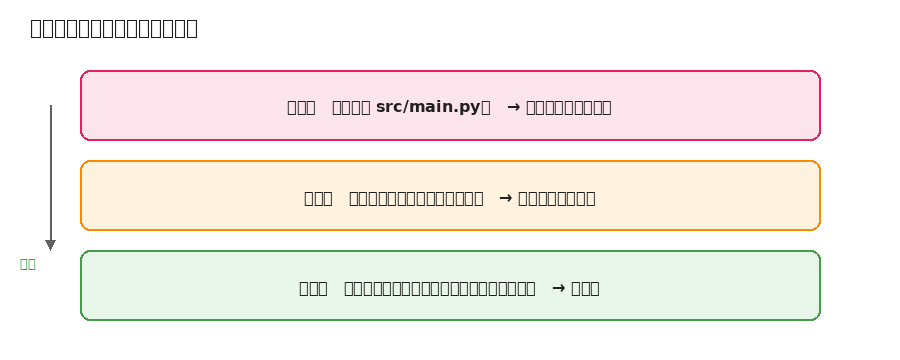
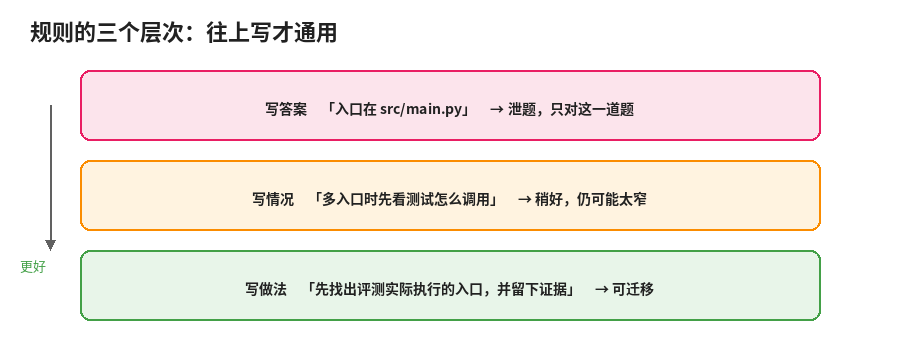
修复全部插图中文豆腐块：改用 Noto Sans CJK SC
此前 PNG 用了不含汉字的字体，GitHub 上显示为空方框。现用 Noto Sans CJK SC 重绘 figures/ 下全部 10 张图，并去掉首页与第 1 章里与 PNG 重复的 Mermaid。

diff --git a/README.md b/README.md
@@ -10,17 +10,6 @@
 
 ![Skill 迭代循环](figures/01-iteration-loop.png)
 
-```mermaid
-flowchart LR
-    A[skill v_n] --> B[在评测集上跑]
-    B --> C[判分]
-    C --> D[读失败轨迹]
-    D --> E[改规则 · 剪枝]
-    E --> F{留出集和回归集<br/>都没变差?}
-    F -- 是 --> G[发布 v_n+1]
-    F -- 否 --> E
-    G --> A
-```
 
 ## 目录
 
@@ -43,7 +32,7 @@ flowchart LR
 
 - [推荐阅读](reading.md) — 约 10 份值得通读的材料与覆盖表。
 - [参考来源](sources.md) — 约 45–50 条分层来源。
-- [figures/](figures/) — 书中插图（PNG）；可用 diagrams.net 打开同名思路自行改绘。
+- [figures/](figures/) — 书中插图（PNG）；`01-iteration-loop.drawio` 可用 diagrams.net 打开改绘。
 
 ## 一句话版本
 

diff --git a/chapters/01-background-and-map.md b/chapters/01-background-and-map.md
@@ -34,16 +34,6 @@ v1 通常是作者把自己的经验写下来。之后会遇到：
 
 ![五个环节](../figures/03-five-parts.png)
 
-```mermaid
-flowchart LR
-    A[定目标] --> B[测量]
-    B --> C[改进]
-    C --> D[守住]
-    D -. 下一轮 .-> B
-    E[成本约束] -.-> B
-    E -.-> C
-    E -.-> D
-```
 
 | 环节 | 要回答的问题 | 本书位置 |
 | --- | --- | --- |
